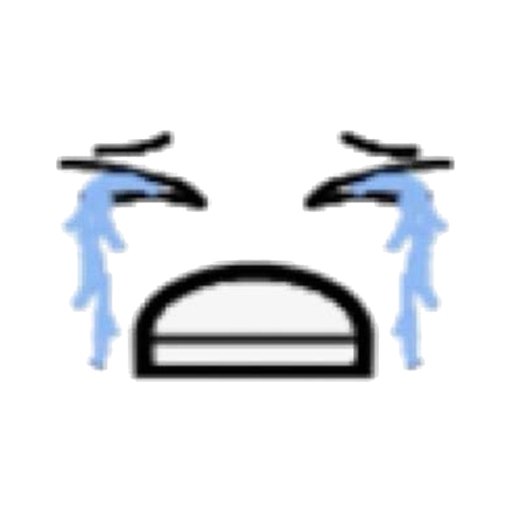
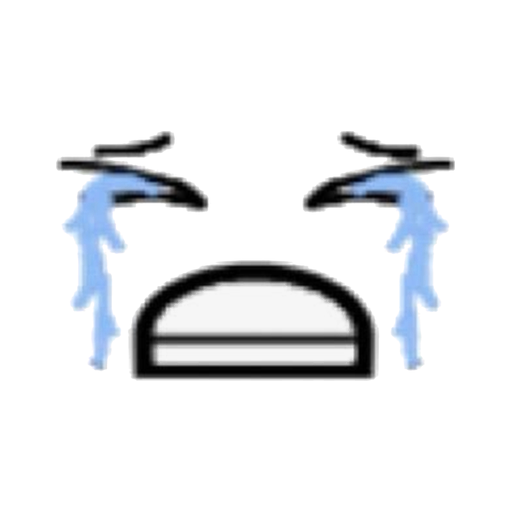
Add neutral and troll faces; trim black bars from source images
Claude-Session: https://claude.ai/code/session_01Vod8CkqXUTU1A9orC9vx3C

diff --git a/tools/make_face_pngs.py b/tools/make_face_pngs.py
@@ -84,10 +84,20 @@ def to_square_decal(rgba: Image.Image) -> Image.Image:
     return decal
 
 
+def trim_dark_bars(im: Image.Image) -> Image.Image:
+    """Cut off black letterbox/pillarbox bars around a light face image."""
+    grey = np.asarray(im.convert("L")).astype(float)
+    cols = np.flatnonzero(grey.mean(axis=0) > 60)
+    rows = np.flatnonzero(grey.mean(axis=1) > 60)
+    # Step in a few px past the bar edge so no dark seam is left.
+    pad = 3
+    return im.crop((cols[0] + pad, rows[0] + pad, cols[-1] - pad + 1, rows[-1] - pad + 1))
+
+
 def main() -> None:
     OUT.mkdir(exist_ok=True)
     for src in sorted(FACES.glob("*.jpg")):
-        im = Image.open(src).convert("RGB")
+        im = trim_dark_bars(Image.open(src).convert("RGB"))
         im = im.resize((im.width * UPSCALE, im.height * UPSCALE), Image.LANCZOS)
         im = im.filter(ImageFilter.GaussianBlur(UPSCALE * 0.35))  # smooth out JPEG blocks
         rgba = remove_background(np.asarray(im).astype(float))
